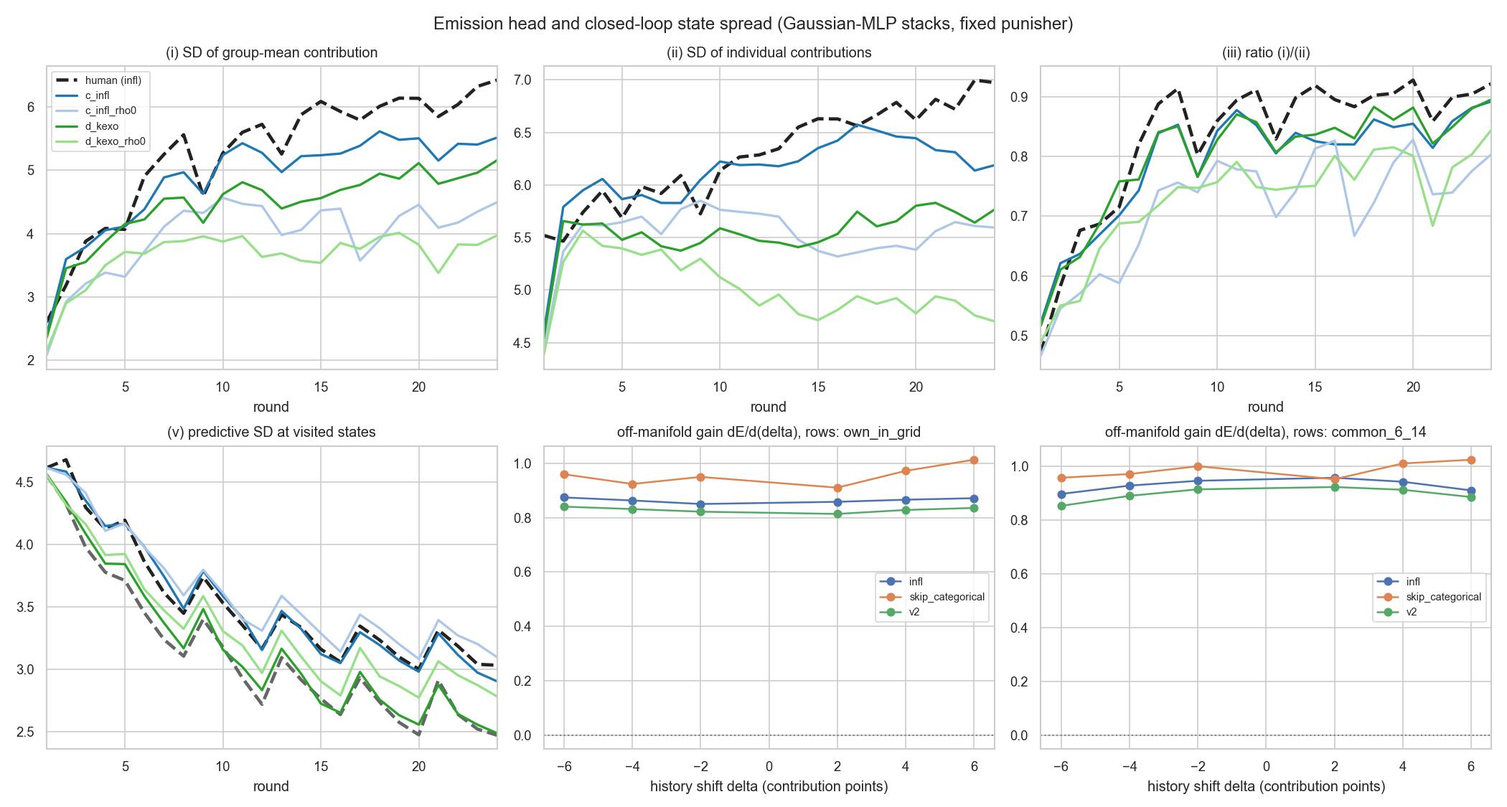
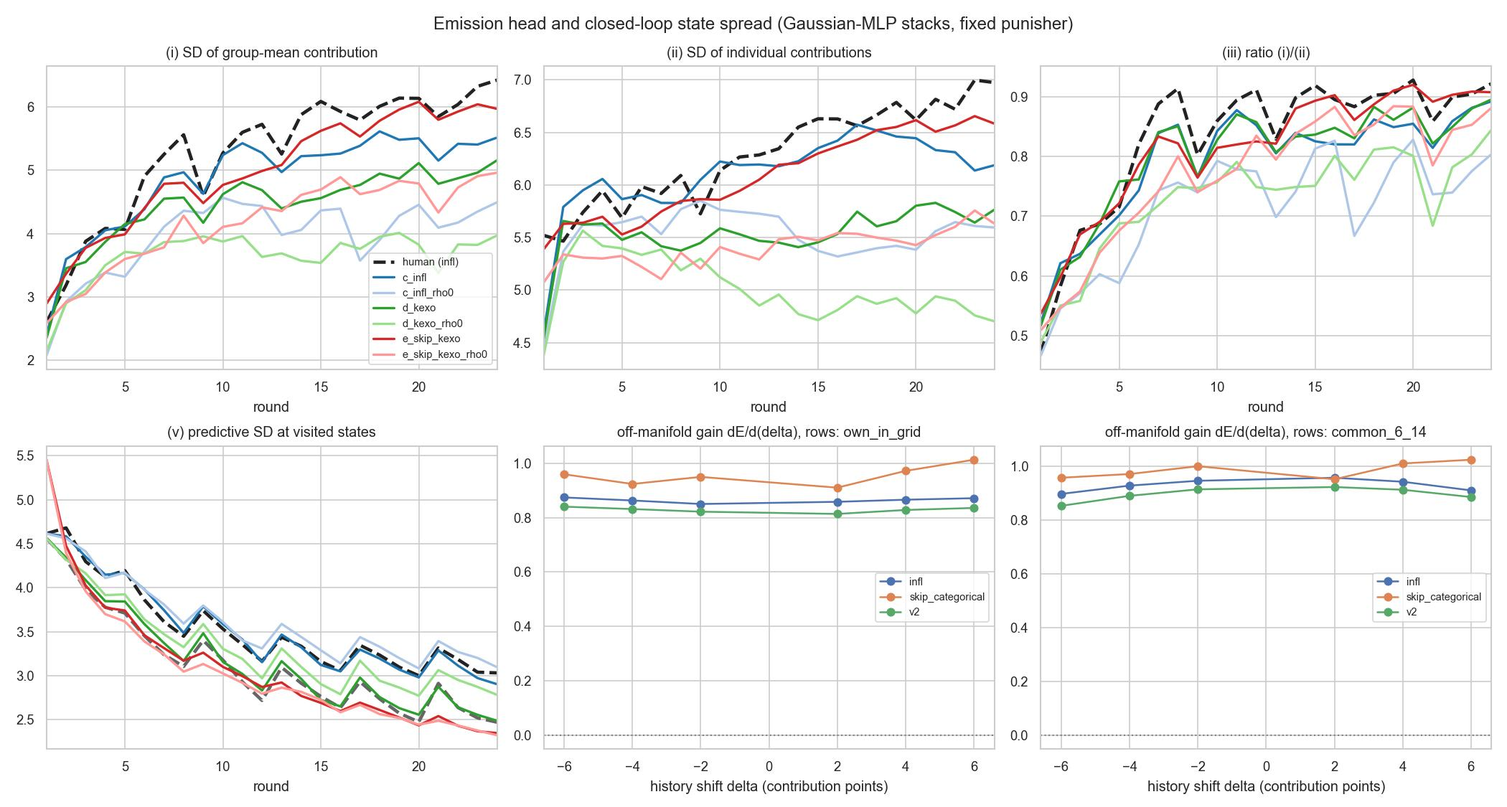
Close the switch-model confound: match the categorical arms to the k-onehot head
The headline table compared categorical arms on switch_joint_exodus against
Gaussian arms on switch_exodus_k_onehot, which left the switch model as the
one cross-lineage difference. Both matched cells now exist.

Copula on: PR #190's committed run (job 30317123), whose config differs from
PR #186's arm A only in the switch model. Its per_round.parquet and config are
copied in byte-identically (sha256 d94f9a9b...b471f), so the merge of the two
branches is a no-op on those paths.

Copula off: a new simulation, PR #186's arm B with only the switch model
swapped -- job 30317620, 1:12, exit 0:0. It runs in neither existing tree
(this lineage lacks aimanager.generic.group_vnode, job 30317585; PR #186's
builds a 23-feature switch input where the one-hot-k head wants 39, job
30317610), so it ran in my own isolated dir ~/repros/ai-runs/head-diag-cat:
PR #186's tree with PR #190's src/ overlaid, read-only from that worktree.
Neither sibling's worktree nor cluster directory was written to.

Two checks that this measures the same thing as PR #186. Re-running PR #190's
own config in that tree reproduces their committed parquet bit-identically in
contribution, punishment, agent_group and common_good (job 30317648). And the
human teacher-forced pass under the bare trunk returns Var(E) 27.933 and
Var(resid) 11.794 against PR #186's quoted 27.93 and 11.79.

Result: the switch model is worth +0.006 in retention on the copula-off cell
[…]

diff --git a/scripts/data_analysis/head_state_spread.py b/scripts/data_analysis/head_state_spread.py
@@ -75,6 +75,19 @@ ARMS = {  # arm -> (bundle, sim dir)
     ),
     "d_kexo_rho0": ("v2", "23_2g8a_head_diag_d_kexo_rho0"),
 }
+# The switch-matched CATEGORICAL arms. PR #186's arms A and B ran with
+# switch_joint_exodus while every Gaussian arm here runs with
+# switch_exodus_k_onehot, which left the switch model as the one cross-lineage
+# difference in the headline table. These two close it: the same stimulus-skip
+# contributor (copula on / off) under the Gaussian arms' own switch head.
+GNN_ARMS = {
+    "e_skip_kexo": (  # copula on -- PR #190's committed run, job 30317123
+        "23_2g8a_switch_kexo_port_self_gnncopar1_contr_stimulus_skip"
+        "_contr_gnn_kexo_switch_curpun"
+    ),
+    "e_skip_kexo_rho0": "23_2g8a_head_diag_e_skip_kexo_rho0",  # copula off
+}
+
 DELTAS = [-6, -4, -2, 2, 4, 6]
 COMMON = (6, 14)  # own previous contribution range that stays in-grid for all deltas
 
@@ -318,6 +331,63 @@ def gain_gaussian():
     pd.concat(tabs).to_csv(OUT / "gain_gaussian.csv", index=False)
 
 
+def gnn_teacher_force():
+    """PR #186's teacher-forcing, run over the two switch-matched categorical
+    arms. The BARE stimulus-skip trunk (copula_rho == 0) supplies
+    E[c | history] at each arm's own realised states, exactly as
+    `copula_closed_loop_variance.teacher_force` does for arms A/B/C -- the
+    same function (`ccv.tf_frame` -> `cc.teacher_forced_rows`), so the new rows
+    are produced by the code that produced the quoted ones.
+
+    Also re-runs the human pass, whose Var(E[c|hist]) must reproduce PR #186's
+    27.93: that is the check that this path is measuring the same thing.
+    """
+    tree = Path(os.environ["HEAD_DIAG_TREE"]).expanduser().resolve()
+    sys.path.insert(0, str(tree / "src"))
+    sys.path.insert(0, str(tree / "scripts" / "artificial_humans"))
+    sys.path.insert(0, str(tree / "scripts" / "data_analysis"))
+    import contribution_copula_rho as cc
+    import torch as th
+    from rcb_teacher_forced import check_sim_defaults, load_sim
+
+    from aimanager.generic.graph import GraphNetwork
+
+    OUT.mkdir(parents=True, exist_ok=True)
+    trunk = tree / (
+        "artifacts/artificial_humans"
+        "/group_switching_contribution_50ep_vnode_stimulus_skip"
+        "/model/architecture_node+edge+rnn__dataset_50ep__epochs_575.pt"
+    )
+    model = GraphNetwork.load(str(trunk), device="cpu")
+    model.eval()
+    assert model.copula_rho == 0.0, "teacher-force the BARE trunk"
+
+    data, _, key_to_idx, defaults = cc.load_full()
+    tr = cc.select_split(key_to_idx, cc.TRAIN, cc.N_TRAIN_EP)
+    te = cc.select_split(key_to_idx, cc.TEST, cc.N_TEST_EP)
+    idx = np.array(sorted(set(tr.tolist()) | set(te.tolist())))
+    df = ccv.tf_frame(model, data, idx)
+    df["episode"] = idx[df["episode"]]
+    df.to_parquet(OUT / "tf_human_skip.parquet", index=False)
+    v = (df["c"] - df["e"]).var()
+    print(f"human under the bare skip trunk: {len(df)} rows, "
+          f"var(c) {df['c'].var():.3f}, var(E) {df['e'].var():.3f} "
+          f"(PR #186: 27.93), var(resid) {v:.3f} (PR #186: 11.79)")  # fmt: skip
+
+    check_sim_defaults(model, defaults)
+    for arm, name in GNN_ARMS.items():
+        path = SIM / name / "per_round.parquet"
+        if not path.exists():
+            print(f"arm {arm}: {path} missing, skipped")
+            continue
+        sim, _ = load_sim(path, defaults)
+        n_ep = sim["contribution"].shape[0]
+        with th.no_grad():
+            df = ccv.tf_frame(model, sim, np.arange(n_ep))
+        df.to_parquet(OUT / f"tf_{arm}.parquet", index=False)
+        print(f"arm {arm}: {len(df)} rows, var(E) {df['e'].var():.3f}")
+
+
 def gain_gnn():
     """The categorical stimulus-skip trunk (PR #186's arm B model), run under
     that PR's code tree (HEAD_DIAG_TREE) on Raven: its loaders give the same
@@ -372,7 +442,7 @@ def decomposition(df, tf):
     d["var_c"] = tf["c"].var()
     d["var_cond_mean"] = tf["e"].var()
     d["var_resid"] = tf["resid"].var()
-    d["var_mu"] = tf["mu"].var()
+    d["var_mu"] = tf["mu"].var() if "mu" in tf else np.nan
     d["n_rows"] = len(tf)
     return d
 
@@ -389,7 +459,13 @@ def bootstrap_retention(n_boot=2000, seed=0):
     for key in BUNDLES:
         tf = pd.read_parquet(OUT / f"tf_human_{key}.parquet")
         hum[key] = [g["e"].to_numpy() for _, g in tf.groupby("episode")]
-    for arm, (key, _) in ARMS.items():
+    arms = {a: k for a, (k, _) in ARMS.items()}
+    hs = OUT / "tf_human_skip.parquet"
+    if hs.exists():
+        tf = pd.read_parquet(hs)
+        hum["skip_categorical"] = [g["e"].to_numpy() for _, g in tf.groupby("episode")]
+        arms.update({a: "skip_categorical" for a in GNN_ARMS})
+    for arm, key in arms.items():
         path = OUT / f"tf_{arm}.parquet"
         if not path.exists():
             continue
@@ -430,7 +506,16 @@ def analyse():
         arm = f"human ({key})"
         dec.append(dict(arm=arm, model=key, **decomposition(human, tf)))
         per_round[arm] = ccv.spread_by_round(human).join(ccv.residual_by_round(tf))
-    for arm, (key, name) in ARMS.items():
+    hs = OUT / "tf_human_skip.parquet"
+    if hs.exists():
+        tf = pd.read_parquet(hs)
+        dec.append(
+            dict(arm="human (skip recomputed)", model="skip_categorical",
+                 **decomposition(human, tf))
+        )  # fmt: skip
+    arms = {a: (k, n) for a, (k, n) in ARMS.items()}
+    arms.update({a: ("skip_categorical", n) for a, n in GNN_ARMS.items()})
+    for arm, (key, name) in arms.items():
         p = OUT / f"tf_{arm}.parquet"
         if not p.exists():
             continue
@@ -453,7 +538,7 @@ def analyse():
                  "sd_group_mean", "sd_individual", "ratio",
                  "resid_corr_all_rounds"]  # fmt: skip
     head = pd.concat([PR186[head_cols], dec[head_cols]], ignore_index=True)
-    ref = {"skip_categorical": float(PR186.loc[0, "var_cond_mean"])}
+    ref = {"skip_categorical": float(PR186.loc[0, "var_cond_mean"])}  # 27.93
     for key in BUNDLES:
         row = dec.loc[dec["arm"] == f"human ({key})", "var_cond_mean"]
         ref[key] = float(row.iloc[0])
@@ -519,6 +604,7 @@ def plot(per_round, piv):
         "human (infl)": "#222222", "human (v2)": "#666666",
         "c_infl": "#1f77b4", "c_infl_rho0": "#aec7e8",
         "d_kexo": "#2ca02c", "d_kexo_rho0": "#98df8a",
+        "e_skip_kexo": "#d62728", "e_skip_kexo_rho0": "#ff9896",
     }  # fmt: skip
     panels = [
         ("sd_group_mean", "(i) SD of group-mean contribution"),
@@ -558,6 +644,7 @@ if __name__ == "__main__":
     ap = argparse.ArgumentParser(description=__doc__)
     ap.add_argument("--teacher-force", action="store_true")
     ap.add_argument("--gain", action="store_true")
+    ap.add_argument("--gnn-tf", action="store_true")
     ap.add_argument("--gnn-gain", action="store_true")
     ap.add_argument("--analyse", action="store_true")
     a = ap.parse_args()
@@ -565,6 +652,8 @@ if __name__ == "__main__":
         teacher_force()
     if a.gain:
         gain_gaussian()
+    if a.gnn_tf:
+        gnn_teacher_force()
     if a.gnn_gain:
         gain_gnn()
     if a.analyse:

diff --git a/notes/autoresearch_log/head-state-spread-diagnostic.md b/notes/autoresearch_log/head-state-spread-diagnostic.md
@@ -20,6 +20,7 @@ This is a **diagnostic**, not a candidate: it trains nothing and ships no model.
 3. Teacher-force each bundle over its own arm's realised trajectories and over the 50 human games; decompose `Var(c)`.
 4. Probe the off-manifold gain on human states shifted by ±2, 4, 6 points, for all three heads.
 5. Verdict, stated in the direction the evidence points.
+6. (Added after review) Close the switch-model confound by measuring both switch-matched categorical cells (§3.7).
 
 ## 3. Results (measured)
 
@@ -130,6 +131,31 @@ On the wider `own_in_grid` set the same ordering holds (categorical 0.910-1.013,
 
 **No head's gain decays with |delta|.** The categorical head is flat-to-rising (0.957 at -6, 1.023 at +6 on the common set); both Gaussian heads are mildly hump-shaped, peaking near delta 0 and falling ~0.05 at |delta| = 6. Categorical is above infl in 10 of 12 cells and above v2 in 12 of 12.
 
+### 3.7 The switch-matched categorical arms (added after review)
+
+§3.4's categorical rows ran with `switch_joint_exodus` and every Gaussian row with `switch_exodus_k_onehot`, which left the switch model as the one cross-lineage difference. Both matched cells now exist, so the comparison is like-for-like.
+
+The copula-**on** cell already existed as PR #190's committed run (`auto/switch-kexo-port`, job 30317123): the same stimulus-skip contributor with the herding copula, the same one-hot-k switch head and the same current-contribution punisher. Its config differs from PR #186's arm A **only** in the switch model. Its `per_round.parquet` is copied into this branch byte-identically (sha256 `d94f9a9b…b471f`), so the merge of the two branches is a no-op on that path.
+
+The copula-**off** cell needed a new simulation, and I judged it worth the cluster time because it is the headline row the whole verdict rests on. It is PR #186's arm B with only the switch model swapped: job **30317620**, 1:12, exit `0:0`. It would not run in either existing tree — this branch's lineage lacks `aimanager.generic.group_vnode` (job 30317585 failed on the import) and PR #186's lineage builds a 23-feature switch input where the one-hot-k head wants 39 (job 30317610 failed on the matmul). Only PR #190's port has both, so I built my own isolated dir `~/repros/ai-runs/head-diag-cat` from PR #186's tree with PR #190's `src/` overlaid, read-only from that worktree; neither sibling's worktree nor cluster directory was written to. The shared artifacts are byte-identical across the lineages (`switch_exodus_k_onehot` sha256 `28dd4b40…c820d`, punisher sha256 `2ad6653e…c820d9`).
+
+Two independent checks that this tree measures the same thing as PR #186. First, re-running PR #190's own config in it reproduces their committed parquet **bit-identically** in contribution, punishment, agent_group and common_good (job 30317648). Second, the human teacher-forced pass under the bare trunk returns Var(E[c|hist]) **27.933** and Var(residual) **11.794** against PR #186's quoted 27.93 and 11.79, and the CG ratio 0.848 against 0.848.
+
+| arm | switch head | copula | Var(E[c\|hist]) | ratio | retention [95% CI] |
+|---|---|---|---|---|---|
+| skip A (PR #186) | joint_exodus | on | 23.88 | 0.811 | 0.855 |
+| **e_skip_kexo** (PR #190) | **k_onehot** | on | **25.11** | 0.828 | **0.899** [0.739, 1.127] |
+| c_infl | k_onehot | on | 22.87 | 0.800 | 0.926 [0.790, 1.106] |
+| d_kexo | k_onehot | on | 18.51 | 0.804 | 0.793 [0.674, 0.952] |
+| skip B (PR #186) | joint_exodus | off | 18.88 | 0.785 | 0.676 |
+| **e_skip_kexo_rho0** (new) | **k_onehot** | off | **19.06** | 0.778 | **0.682** [0.547, 0.847] |
+| c_infl_rho0 | k_onehot | off | 16.51 | 0.719 | 0.668 [0.575, 0.802] |
+| d_kexo_rho0 | k_onehot | off | 13.30 | 0.728 | 0.570 [0.490, 0.683] |
+
+The switch model is worth **+0.006** in retention on the copula-off cell (0.676 -> 0.682) and **+0.044** on the copula-on cell (0.855 -> 0.899).
+
+Per round block the matched copula-off categorical arm keeps diverging late — 3.41 -> 4.39 -> 4.73 — where both Gaussian copula-off arms stall or reverse (3.39 -> 4.33 -> 4.17 inflated, 3.35 -> 3.76 -> 3.82 v2). Human is 4.19 -> 5.54 -> 6.09.
+
 ## 4. Notes (inference)
 
 1. **The hypothesis is falsified in its mechanism.** The premise was that a categorical head, having no structure across its 21 levels, would relax toward the training marginal off the human manifold. It does not. Its gain is the flattest and the highest of the three, and it is the only head whose gain *rises* at the extremes rather than falling. Whatever the 21 free logits fail to do, they do not fail to extrapolate a monotone shift in the conditioning state. The location-scale parameterisation is not buying extrapolation, because extrapolation was not missing.
@@ -138,17 +164,23 @@ On the wider `own_in_grid` set the same ordering holds (categorical 0.910-1.013,
 
 3. **The fit-normalised reading is the fairest one to the Gaussian heads, and it is a tie at best.** Retention: categorical 0.676, inflated 0.678 (CI [0.575, 0.802]), v2 0.576 (CI [0.490, 0.683]). The inflated head is a statistical dead heat with the categorical; the v2 head is lower, with the categorical value sitting just at its upper CI bound. So the honest summary is: **one Gaussian head ties, one is worse, neither is better.** No reading of these numbers supports "location-scale resists contraction better".
 
-4. **The confound is real but it does not rescue the hypothesis, and the clean probe agrees with the confounded one.** The categorical arms ran with `switch_joint_exodus`, the Gaussian arms with `switch_exodus_k_onehot`; punisher, valid model, seed, episodes and cadence are identical, so the switch model is the single cross-lineage difference in §3.4. That confound is entirely absent from §3.6, which runs the three contribution models over the same human states with no switch model in the loop. Both measurements order the heads the same way (categorical >= inflated > v2). A confound that flipped the true ordering in §3.4 would have to be coincidentally reproduced by an independent probe that cannot see it.
+4. **The confound has now been measured, and it changes nothing on the headline row** (§3.7). Matching the switch head moves the categorical copula-off retention from 0.676 to **0.682**, a shift of +0.006 — two orders of magnitude smaller than the gap it was supposed to explain away. The matched copula-off ordering is categorical 0.682 > inflated 0.668 > v2 0.570, identical to the unmatched one. The confound is larger on the copula-on cell (+0.044, 0.855 -> 0.899), which is where one would expect a switch head that changes group composition to matter most, and even there it does not overturn anything: matched copula-on is inflated 0.926, categorical 0.899, v2 0.793, with the first two bootstrap intervals almost entirely overlapping ([0.790, 1.106] and [0.739, 1.127]). The one honest nuance the matched cell adds is that **on the copula-on cell the inflated head is nominally ahead of the categorical**, by an amount well inside noise.
+
+   Independently, the confound was never present in §3.6 at all, which runs the three contribution models over the same human states with no switch model in the loop, and that probe orders the heads the same way. So three measurements — confounded closed-loop, matched closed-loop, and unconfounded gain — agree.
 
 5. **What the copula contrast says, and why it matters more than the head.** Within each stack the copula is worth far more than the head choice: retention 0.668 -> 0.926 (inflated) and 0.570 -> 0.793 (v2), against PR #186's 0.676 -> 0.855. The spread between the best and worst *head* at fixed copula setting is ~0.10 in retention; the spread between copula off and on within a single head is ~0.22-0.26. The emission head is the smaller lever by a factor of two.
 
 6. **The inflated head is nonetheless the better of the two Gaussians, and for a legible reason: calibration of the noise, not of the state.** On human histories the inflated head's mean predictive variance is 14.22 against a realised residual variance of 14.67 — calibrated to 3%. The v2 head's is 11.36 against 14.71: the realised residual variance exceeds what the model thinks it emits by **29%**, i.e. v2 is substantially underdispersed. Per round block the same gap shows as predictive SD against realised residual SD — inflated 4.10/3.35/3.16 against 4.32/3.57/3.48 (5-9% under), v2 3.77/2.95/2.66 against 4.33/3.59/3.47 (13-23% under). The atoms at the corners and at repeat-previous are what close that gap, and they are a property of the *mixture*, not of the location-scale body. If anything here is worth carrying into a future head, it is the inflation.
 
-7. **Contraction is a late-episode failure, not a level offset** (§3.5). Both copula-off arms track the human group-mean spread reasonably in rounds 1-8 (3.39 and 3.35 against 4.19) but stop diverging after round ~16 while the human keeps spreading to 6.09. Whatever generates persistent between-group divergence in the human data is a slow, accumulating process, and the copula supplies a crude version of it (a per-episode group latent) while no per-round emission head supplies any of it. This is consistent with Note 5: the missing ingredient is *persistence across rounds*, which is a property of the latent, not of the shape of the per-round conditional.
+7. **Contraction is a late-episode failure, not a level offset, and the matched arm sharpens where the heads part company** (§3.5, §3.7). All three copula-off arms start similarly in rounds 1-8 (categorical 3.41, inflated 3.39, v2 3.35, against human 4.19). They then separate: the categorical arm keeps diverging through the last block (4.39 -> **4.73**) while both Gaussian arms stall or reverse (4.33 -> 4.17 inflated, 3.76 -> 3.82 v2). Human keeps climbing to 6.09. So the head difference is not a uniform scaling of spread — it is specifically that the Gaussian heads stop accumulating between-group divergence after round ~16 and the categorical head does not. That is the opposite of the failure mode the hypothesis predicted for the categorical head, and it is the clearest single piece of evidence against it.
+
+   All three still fall well short of the human trajectory, so the shared deficit remains. Whatever generates persistent between-group divergence in the human data is a slow, accumulating process; the copula supplies a crude version of it (a per-episode group latent) and no per-round emission head of any shape supplies much of it. This is consistent with Note 5: the missing ingredient is *persistence across rounds*, a property of the latent, not of the shape of the per-round conditional.
 
 ## 5. Verdict
 
-**This kills the combined head as motivated.** The specific argument for building it — that an ordinal location-scale emission would hold state spread where 21 free logits collapse — is contradicted by both measurements available. The categorical head extrapolates better off-manifold (gain 0.95-1.02 against 0.85-0.96, and it is the only one that does not sag at the extremes), and it retains at least as much closed-loop state spread (retention 0.676 against 0.678 and 0.576). The evidence is not mixed on the question as posed; it is one-directional.
+**This kills the combined head as motivated.** The specific argument for building it — that an ordinal location-scale emission would hold state spread where 21 free logits collapse — is contradicted by every measurement taken. The categorical head extrapolates better off-manifold (gain 0.95-1.02 against 0.85-0.96, and it is the only one that does not sag at the extremes); on the fully switch-matched copula-off row it retains more closed-loop state spread (retention **0.682** against 0.668 and 0.570, Var(E) 19.06 against 16.51 and 13.30); and it is the only copula-off arm that keeps diverging through the last round block rather than stalling. The evidence is not mixed on the question as posed; it is one-directional.
+
+The one place the Gaussian side is nominally ahead is the copula-**on** matched cell (inflated 0.926 against categorical 0.899), by a margin well inside overlapping bootstrap intervals. That is a tie, not a win, and it is not the row the architecture argument rested on.
 
 It does not kill every element of the proposed architecture, and the distinction matters. The **inflation at the corners and at repeat-previous** is the one component that demonstrably earns its place (Note 6): it is what takes the v2 head's underdispersion (residual variance 29% above predictive) to the inflated head's near-exact match with the human predictive-SD trajectory. The graph body with per-group node and direct punishment path was never tested here and is untouched by this result. What is dead is the *location-scale emission* as a contraction remedy.
 
@@ -156,8 +188,8 @@ If someone wants to argue the combined head anyway, the thing that would settle 
 
 ## 6. What this leaves for a successor
 
-- **Do not re-run the head comparison.** Both the confounded closed-loop measurement and the unconfounded gain probe are in this branch with their scripts; `scripts/data_analysis/head_state_spread.py` regenerates every number from committed inputs in four stages (`--teacher-force`, `--gain`, `--gnn-gain` on Raven, `--analyse`).
-- **The one loose thread that would tighten §3.4** is a categorical arm run with `switch_exodus_k_onehot` instead of `switch_joint_exodus`, which would remove the last cross-lineage difference and make the closed-loop row exactly like-for-like. It costs two ~2-minute Raven sims. It is *not* needed for the verdict (Note 4), but a successor who wants to quote the retention numbers as a clean head contrast should run it first.
+- **Do not re-run the head comparison.** Both the confounded closed-loop measurement and the unconfounded gain probe are in this branch with their scripts; `scripts/data_analysis/head_state_spread.py` regenerates every number from committed inputs in five stages (`--teacher-force`, `--gain`, `--gnn-tf` and `--gnn-gain` on Raven, `--analyse`).
+- **The switch-model confound is closed** (§3.7); do not re-open it. Both matched cells exist, the matched copula-off row moved the categorical retention by +0.006, and the matched arms are reproducible from `GNN_ARMS` in the script. Reproducing the copula-off arm needs the hybrid tree described in §3.7 (`~/repros/ai-runs/head-diag-cat`: PR #186's tree with PR #190's `src/` overlaid) because neither lineage alone can run that combination; once PR #190 merges, its own tree will run it directly and the hybrid becomes unnecessary.
 - **The live question is the persistent latent, not the head** (Note 5, Note 7). The copula's phi=1 per-episode group draw is state-independent by construction; PR #186 showed phi=0 buys nothing (retention 0.675 against 0.676) while phi=1 buys 0.18. So the value is entirely in the *persistence*, not in the correlation. A head or body that can carry a slow group-level state across rounds — an RNN group node whose hidden state is not reset, or an explicit learned group effect — is the untested family with the largest indicated headroom.
 - **Carry the inflation forward** if a new contributor is built on the Gaussian lineage (Note 6); drop the plain `gaussian_mlp_v2` body, which is underdispersed on human histories and the weakest arm on every row measured here.
 - **`gain_skip.csv` must be regenerated on Raven** if the categorical trunk changes: the stimulus-skip artifact is not on this lineage, so `--gnn-gain` reads PR #186's tree read-only via `HEAD_DIAG_TREE=~/repros/ai-runs/copula-cl-variance`. Everything else in the script runs locally on CPU.

diff --git a/plots/data_analysis/evaluation/head_state_spread/tables.md b/plots/data_analysis/evaluation/head_state_spread/tables.md
@@ -8,10 +8,13 @@
 | skip C (rho .0395, phi 0) | skip_categorical | 29.570 | 18.860 | 11.180 | 4.330 | 5.438 | 0.796 | 0.031 | 27.930 | 0.675 |
 | human (infl) | infl | 39.916 | 24.700 | 14.671 | 5.358 | 6.318 | 0.848 | 0.044 | 24.700 | 1.000 |
 | human (v2) | v2 | 39.916 | 23.342 | 14.714 | 5.358 | 6.318 | 0.848 | 0.039 | 23.342 | 1.000 |
+| human (skip recomputed) | skip_categorical | 39.916 | 27.933 | 11.794 | 5.358 | 6.318 | 0.848 | 0.032 | 27.930 | 1.000 |
 | c_infl | infl | 37.635 | 22.873 | 13.382 | 4.907 | 6.135 | 0.800 | 0.028 | 24.700 | 0.926 |
 | c_infl_rho0 | infl | 30.700 | 16.506 | 14.576 | 3.982 | 5.541 | 0.719 | -0.002 | 24.700 | 0.668 |
 | d_kexo | v2 | 30.977 | 18.514 | 11.493 | 4.476 | 5.566 | 0.804 | 0.037 | 23.342 | 0.793 |
 | d_kexo_rho0 | v2 | 25.286 | 13.300 | 12.490 | 3.661 | 5.029 | 0.728 | -0.004 | 23.342 | 0.570 |
+| e_skip_kexo | skip_categorical | 37.407 | 25.113 | 11.266 | 5.063 | 6.116 | 0.828 | 0.024 | 27.930 | 0.899 |
+| e_skip_kexo_rho0 | skip_categorical | 29.441 | 19.056 | 11.115 | 4.222 | 5.426 | 0.778 | 0.002 | 27.930 | 0.682 |
 
 ## Retention of Var(E[c|hist]), episode-cluster bootstrap
 
@@ -21,6 +24,8 @@
 | c_infl_rho0 | infl | 16.506 | 15.572 | 17.508 | 0.678 | 0.575 | 0.802 | 100 |
 | d_kexo | v2 | 18.514 | 17.147 | 19.773 | 0.800 | 0.674 | 0.952 | 100 |
 | d_kexo_rho0 | v2 | 13.300 | 12.689 | 13.870 | 0.576 | 0.490 | 0.683 | 100 |
+| e_skip_kexo | skip_categorical | 25.113 | 21.788 | 28.544 | 0.914 | 0.739 | 1.127 | 100 |
+| e_skip_kexo_rho0 | skip_categorical | 19.056 | 16.338 | 21.598 | 0.687 | 0.547 | 0.847 | 100 |
 
 ## Round-block means
 
@@ -44,6 +49,12 @@
 | d_kexo_rho0 | 1-8 | 3.349 | 5.242 | 0.636 | -0.008 | 3.914 | 2.622 | 4.044 |
 | d_kexo_rho0 | 9-16 | 3.760 | 4.942 | 0.761 | 0.000 | 3.144 | 2.411 | 3.350 |
 | d_kexo_rho0 | 17-24 | 3.818 | 4.852 | 0.788 | -0.009 | 2.927 | 2.352 | 3.115 |
+| e_skip_kexo | 1-8 | 3.994 | 5.635 | 0.707 | 0.039 | 3.926 | 2.176 | 4.038 |
+| e_skip_kexo | 9-16 | 5.128 | 6.098 | 0.840 | 0.019 | 2.901 | 1.778 | 3.100 |
+| e_skip_kexo | 17-24 | 5.888 | 6.554 | 0.898 | 0.005 | 2.494 | 1.530 | 2.725 |
+| e_skip_kexo_rho0 | 1-8 | 3.411 | 5.253 | 0.649 | 0.002 | 3.849 | 2.197 | 3.937 |
+| e_skip_kexo_rho0 | 9-16 | 4.387 | 5.407 | 0.811 | 0.007 | 2.857 | 1.839 | 3.131 |
+| e_skip_kexo_rho0 | 17-24 | 4.734 | 5.556 | 0.852 | -0.006 | 2.476 | 1.656 | 2.773 |
 
 ## Full decomposition
 
@@ -51,10 +62,13 @@
 |---|---|---|---|---|---|---|---|---|---|---|---|---|---|---|---|---|---|
 | human (infl) | infl | 28.7048 | 17.1185 | 12.5875 | 0.5964 | 5.3577 | 6.3179 | 0.8480 | 2239 | 0.8480 | 0.0436 | 3.5341 | 39.9160 | 24.7002 | 14.6707 | 25.0339 | 9320 |
 | human (v2) | v2 | 28.7048 | 17.1185 | 12.5875 | 0.5964 | 5.3577 | 6.3179 | 0.8480 | 2239 | 0.8480 | 0.0392 | 3.1245 | 39.9160 | 23.3418 | 14.7143 | 26.5321 | 9320 |
+| human (skip recomputed) | skip_categorical | 28.7048 | 17.1185 | 12.5875 | 0.5964 | 5.3577 | 6.3179 | 0.8480 | 2239 | 0.8480 | 0.0317 | 3.0936 | 39.9160 | 27.9331 | 11.7945 | nan | 9320 |
 | c_infl | infl | 24.0765 | 13.2893 | 11.7050 | 0.5520 | 4.9068 | 6.1347 | 0.7998 | 4328 | 0.7998 | 0.0276 | 3.5324 | 37.6347 | 22.8725 | 13.3823 | 22.9290 | 19200 |
 | c_infl_rho0 | infl | 15.8595 | 5.5433 | 11.4329 | 0.3495 | 3.9824 | 5.5408 | 0.7187 | 4340 | 0.7187 | -0.0024 | 3.6174 | 30.7004 | 16.5056 | 14.5763 | 15.9620 | 19200 |
 | d_kexo | v2 | 20.0347 | 10.9765 | 9.6783 | 0.5479 | 4.4760 | 5.5657 | 0.8042 | 4392 | 0.8042 | 0.0367 | 3.1777 | 30.9775 | 18.5136 | 11.4929 | 21.0234 | 19200 |
 | d_kexo_rho0 | v2 | 13.4063 | 4.5533 | 9.9952 | 0.3396 | 3.6615 | 5.0286 | 0.7281 | 4368 | 0.7281 | -0.0041 | 3.3282 | 25.2863 | 13.2997 | 12.4895 | 15.3016 | 19200 |
+| e_skip_kexo | skip_categorical | 25.6293 | 15.9718 | 10.1125 | 0.6232 | 5.0625 | 6.1161 | 0.8277 | 4348 | 0.8277 | 0.0240 | 3.1067 | 37.4067 | 25.1127 | 11.2663 | nan | 19200 |
+| e_skip_kexo_rho0 | skip_categorical | 17.8222 | 10.0965 | 8.6760 | 0.5665 | 4.2216 | 5.4259 | 0.7780 | 4396 | 0.7780 | 0.0018 | 3.0610 | 29.4409 | 19.0558 | 11.1148 | nan | 19200 |
 
 ## Off-manifold gain of E[c | history], rows: own_in_grid
 
